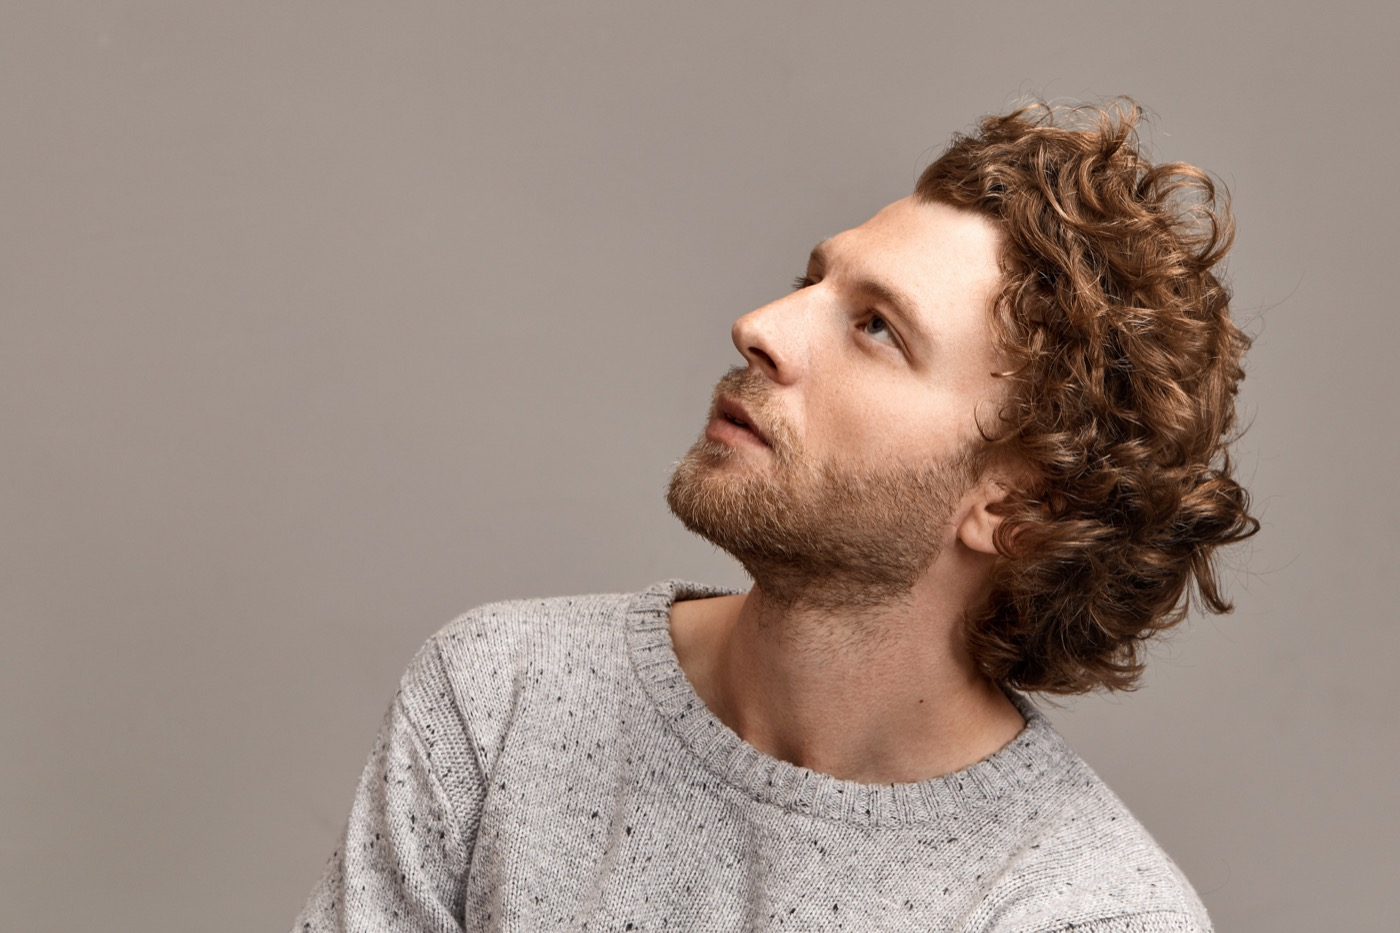
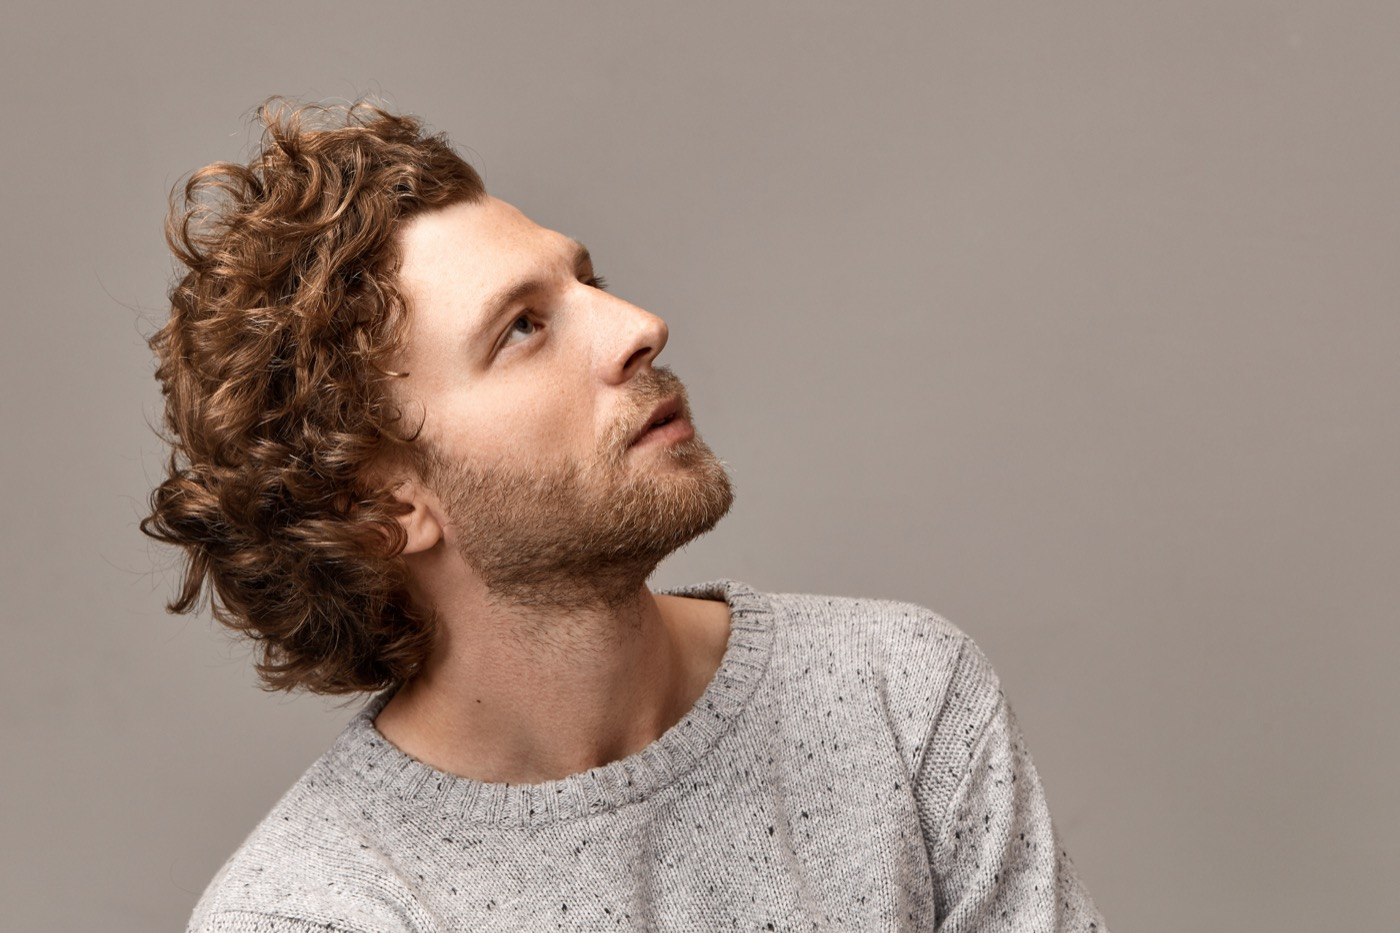
ED goals image: correct mirroring; PD cycle portrait left-of-centre
- ED "What are your goals?" portrait was mirrored the wrong way (hair on the
  right). Figma has hair on the left / face looking up-right — use the
  un-flipped clean image so it matches.
- PD "Understand Your Cycle" portrait now sits left-of-centre (Figma) with the
  hormone tag cloud filling the right; heading and CTA stay centred.

diff --git a/components/category/PeriodDetail.tsx b/components/category/PeriodDetail.tsx
@@ -75,14 +75,14 @@ export default function PeriodDetail() {
           ))}
         </ul>
 
-        {/* portrait centred at the bottom */}
-        <div className="pointer-events-none absolute inset-x-0 bottom-0 z-[1] mx-auto h-[300px] w-[78%] max-w-[360px]">
+        {/* portrait at the bottom, sitting left of centre (Figma) */}
+        <div className="pointer-events-none absolute bottom-0 left-[2%] z-[1] h-[300px] w-[62%] max-w-[320px]">
           <Image
             src="/assets/category/period-cycle.png"
             alt="Woman reflecting on her cycle and hormone health"
             fill
             quality={88}
-            sizes="360px"
+            sizes="320px"
             className="object-contain object-bottom"
           />
         </div>
